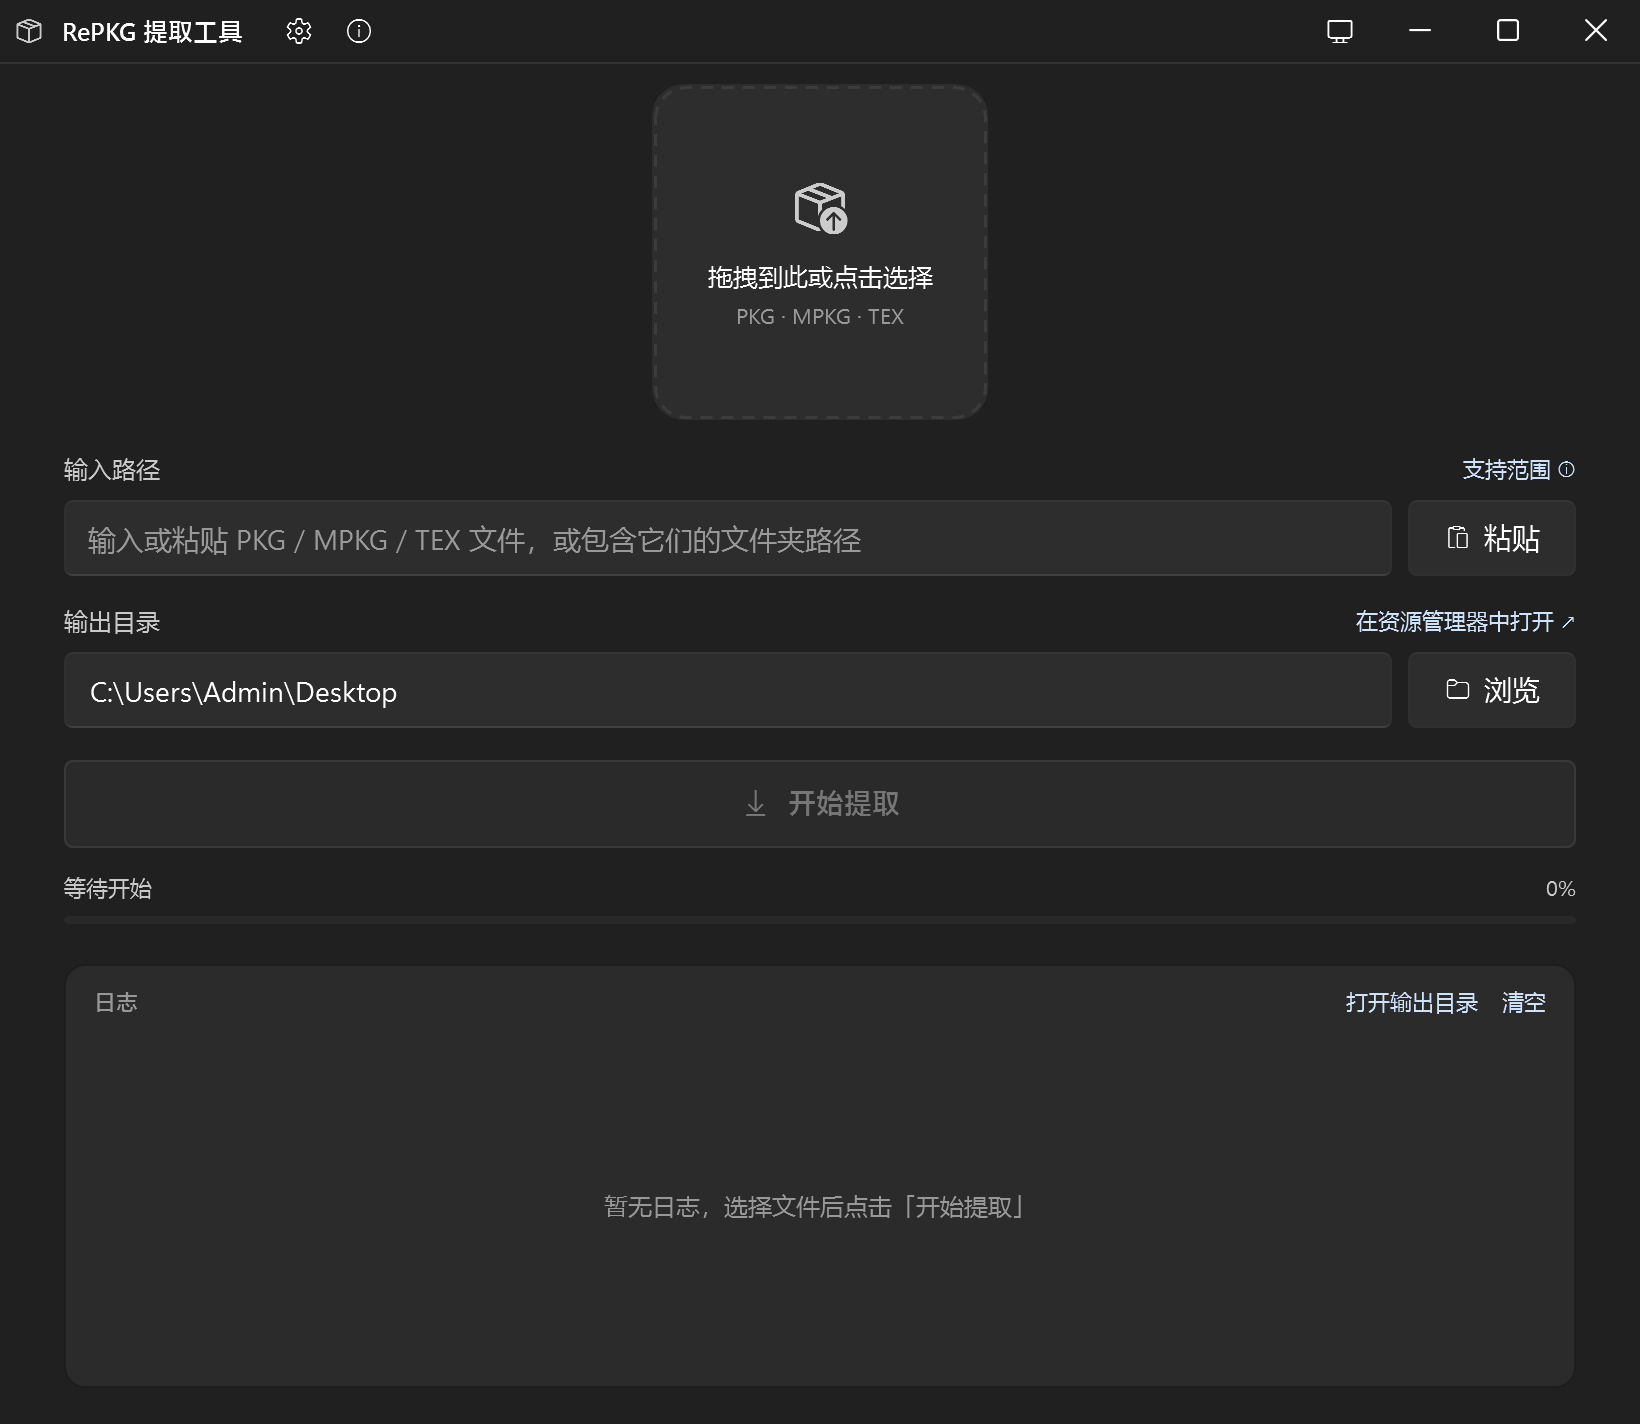
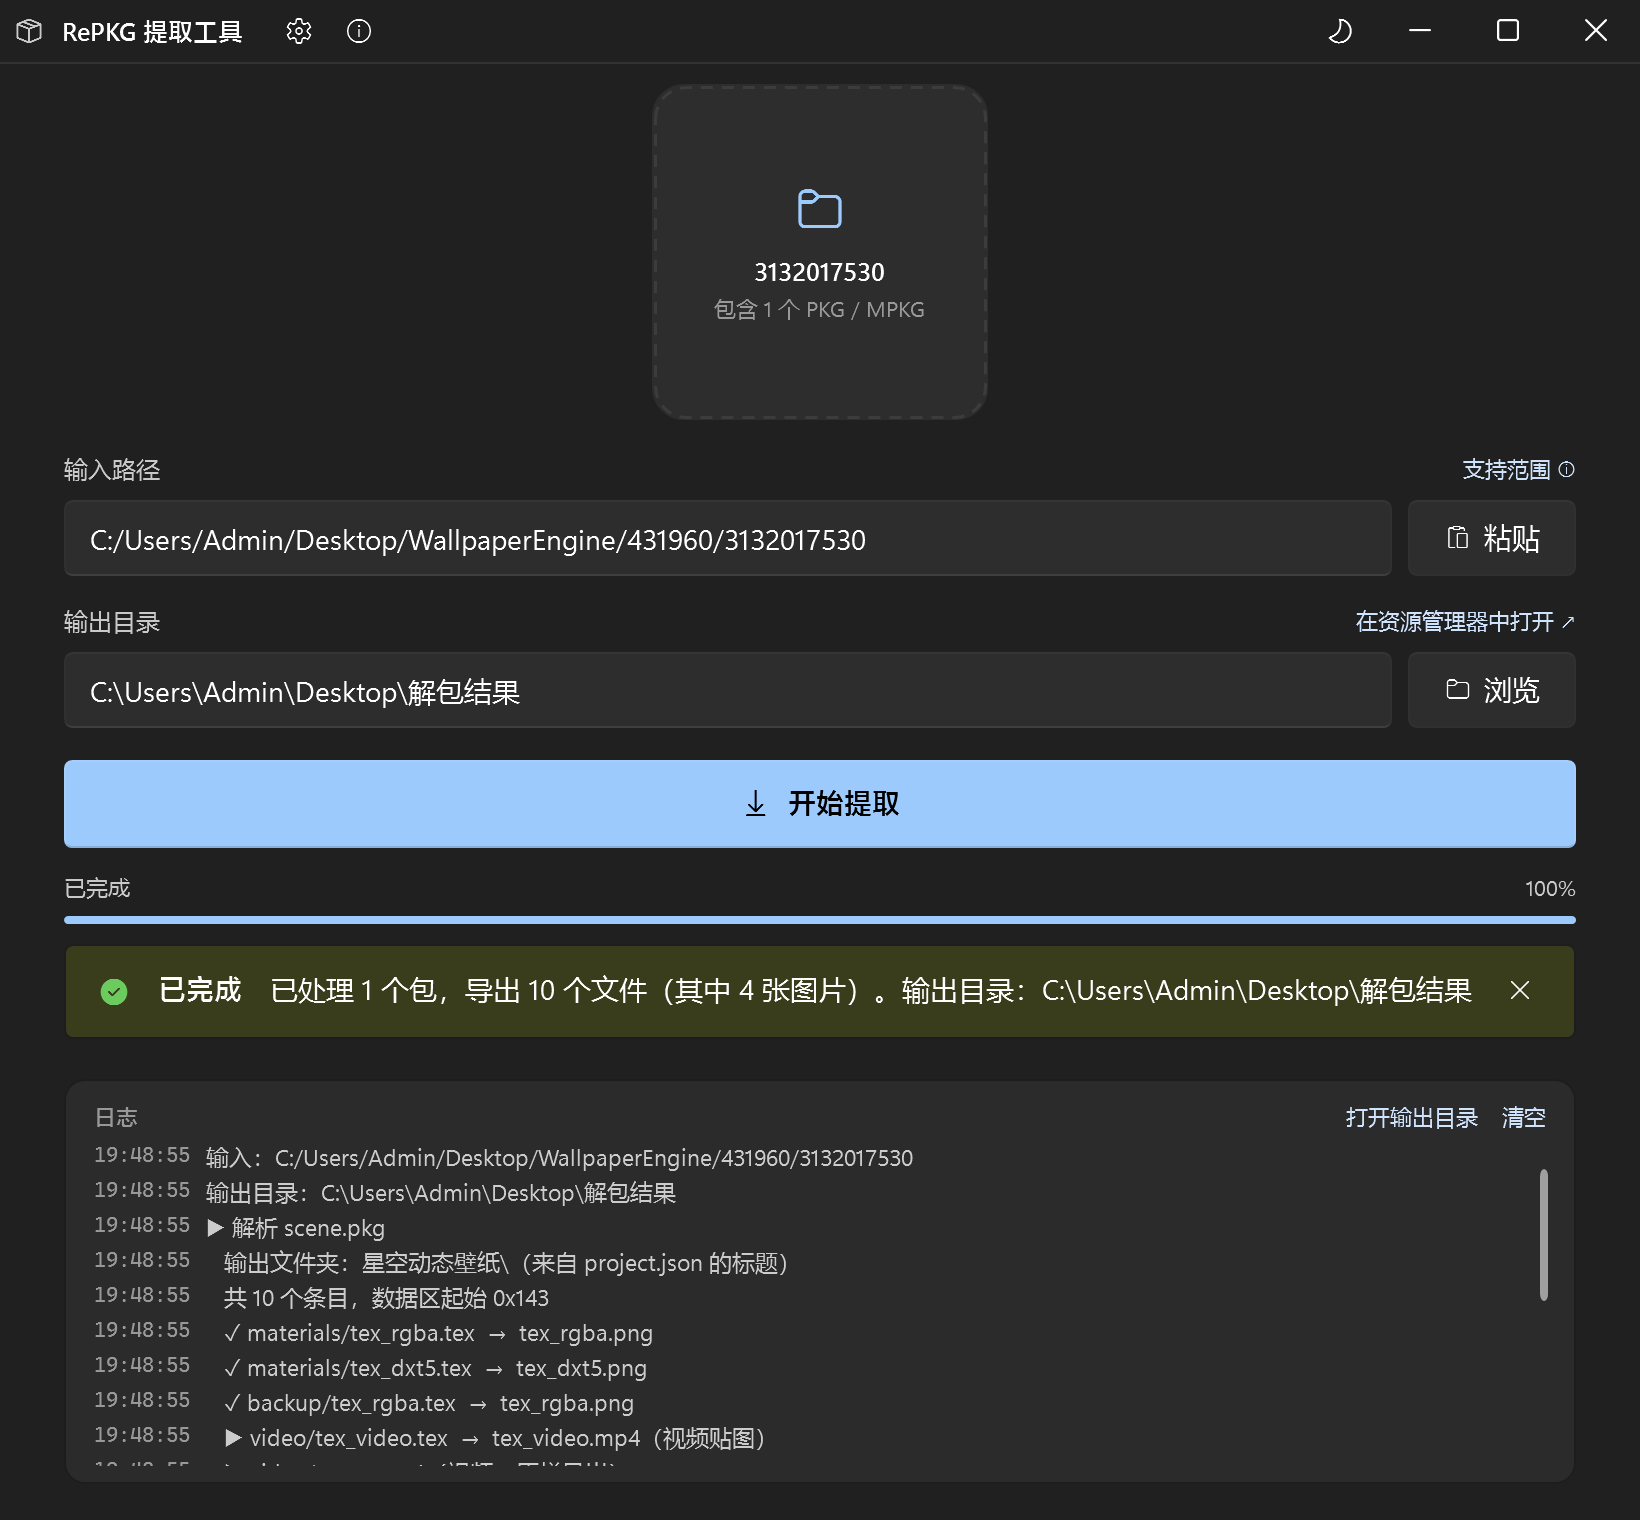
feat: 移除重复的完成浮层；docs: README 加界面预览图
- 去掉 Snackbar 提示：完成结果已由 InfoBar 展示，浮层会遮挡日志且短文本比例失调
- 同步移除 ToastRequested 事件与 ApplyTheme 的无用 notify 参数
- README 新增界面预览（主界面 + 折叠的设置/关于）
- 截图改用默认配置渲染，避免暴露本机设置与临时路径

diff --git a/src/RePkgGui/MainWindow.xaml b/src/RePkgGui/MainWindow.xaml
@@ -486,11 +486,5 @@
             </Grid>
         </Border>
 
-        <!-- Snackbar 提示层 -->
-        <ui:SnackbarPresenter x:Name="SnackbarHost"
-                              Grid.Row="2"
-                              VerticalAlignment="Bottom"
-                              HorizontalAlignment="Center"
-                              Margin="0,0,0,16" />
     </Grid>
 </ui:FluentWindow>

diff --git a/src/RePkgGui/ViewModels/MainViewModel.cs b/src/RePkgGui/ViewModels/MainViewModel.cs
@@ -52,9 +52,6 @@ public sealed class MainViewModel : ObservableObject
         OpenOutputDirectoryCommand = new RelayCommand(OpenOutputDirectory);
     }
 
-    /// <summary>请求弹出 Snackbar 提示（由 View 显示）。</summary>
-    public event EventHandler<string>? ToastRequested;
-
     public RelayCommand StartOrCancelCommand { get; }
     public RelayCommand PasteCommand { get; }
     public RelayCommand CycleThemeCommand { get; }
@@ -353,7 +350,6 @@ public sealed class MainViewModel : ObservableObject
 
             SetInput(path);
             ShowInfo(InfoBarSeverity.Success, "已粘贴路径", path);
-            ToastRequested?.Invoke(this, "已从剪贴板粘贴路径");
         }
         catch (Exception ex)
         {
@@ -393,10 +389,10 @@ public sealed class MainViewModel : ObservableObject
             _ => AppThemeMode.System
         };
 
-        ApplyTheme(next, persist: true, notify: true);
+        ApplyTheme(next, persist: true);
     }
 
-    public void ApplyTheme(AppThemeMode mode, bool persist, bool notify)
+    public void ApplyTheme(AppThemeMode mode, bool persist)
     {
         AppThemeMode = mode;
         ThemeService.Apply(mode);
@@ -408,9 +404,6 @@ public sealed class MainViewModel : ObservableObject
             settings.Theme = mode;
             _settings.Save(settings);
         }
-
-        if (notify)
-            ToastRequested?.Invoke(this, $"主题已切换为「{ThemeModeName(mode)}」");
     }
 
     public static string ThemeModeName(AppThemeMode mode) => mode switch
@@ -535,7 +528,6 @@ public sealed class MainViewModel : ObservableObject
                     $"已处理 {summary.Packages} 个包，导出 {summary.Files} 个文件（其中 {summary.Textures} 张图片）" +
                     $"{BuildSkippedSummary(summary, "，")}。" +
                     $"输出目录：{summary.OutputRoot}");
-                ToastRequested?.Invoke(this, "提取完成");
 
                 if (_settings.Current.OpenOutputWhenDone)
                     OpenOutputFolder();

diff --git a/src/RePkgGui/MainWindow.xaml.cs b/src/RePkgGui/MainWindow.xaml.cs
@@ -26,7 +26,6 @@ public partial class MainWindow
 
         DataContext = _viewModel;
 
-        _viewModel.ToastRequested += OnToastRequested;
         _viewModel.Logs.CollectionChanged += OnLogsChanged;
 
         FitSizeToWorkArea();
@@ -78,7 +77,6 @@ public partial class MainWindow
 
     private void OnWindowClosed(object? sender, EventArgs e)
     {
-        _viewModel.ToastRequested -= OnToastRequested;
         _viewModel.Logs.CollectionChanged -= OnLogsChanged;
     }
 
@@ -119,7 +117,7 @@ public partial class MainWindow
     {
         var settings = SettingsService.Instance.Current;
         _viewModel.OutputDirectory = settings.OutputDirectory;
-        _viewModel.ApplyTheme(settings.Theme, persist: false, notify: false);
+        _viewModel.ApplyTheme(settings.Theme, persist: false);
     }
 
     // ------------------------------------------------------------ 选择输入
@@ -256,23 +254,4 @@ public partial class MainWindow
     }
 
     // ------------------------------------------------------------ 提示
-
-    private void OnToastRequested(object? sender, string message)
-    {
-        try
-        {
-            var snackbar = new Snackbar(SnackbarHost)
-            {
-                Title = message,
-                Timeout = TimeSpan.FromSeconds(2.2),
-                IsCloseButtonEnabled = false
-            };
-
-            snackbar.Show();
-        }
-        catch
-        {
-            // Snackbar 属于增强提示，失败可忽略
-        }
-    }
 }

diff --git a/README.md b/README.md
@@ -26,6 +26,23 @@ Wallpaper Engine 的 **PKG / MPKG 解包** 与 **TEX 转图片** 图形界面。
 
 ---
 
+## 界面预览
+
+解包完成后的主界面。输入 `431960/3132017530`，输出文件夹自动取了 `project.json` 里的壁纸名：
+
+![主界面](docs/screenshot-main.png)
+
+<details>
+<summary>设置页 / 关于页</summary>
+
+![设置](docs/screenshot-settings.png)
+
+![关于](docs/screenshot-about.png)
+
+</details>
+
+---
+
 ## 1. 目录结构
 
 ```
